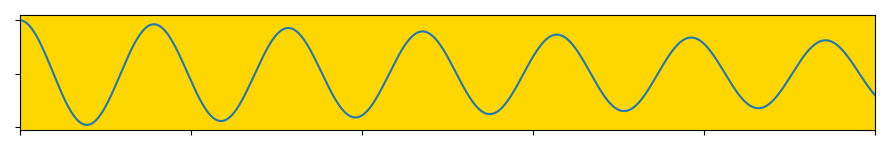
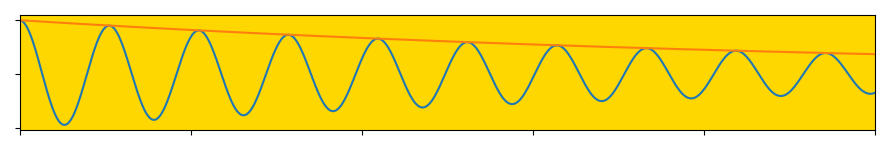
modify header

Changed region(s): [[0.0, 0.1333, 1.0, 0.8533]]

diff --git a/plot.py b/plot.py
@@ -3,9 +3,10 @@ import numpy as np
 px = 1/plt.rcParams['figure.dpi']
 plt.subplots(figsize=(890*px,150*px))
 x = np.linspace(0,10,1000)
-y = np.exp(-0.05*x)*np.cos(4*x)
+y = np.exp(-0.1*x)*np.cos(6*x)
 ax = plt.gca()
 plt.plot(x,y)
+plt.plot(x, np.exp(-0.1*x))
 ax.axes.xaxis.set_ticklabels([])
 ax.axes.yaxis.set_ticklabels([])
 ax.set_facecolor('gold')
